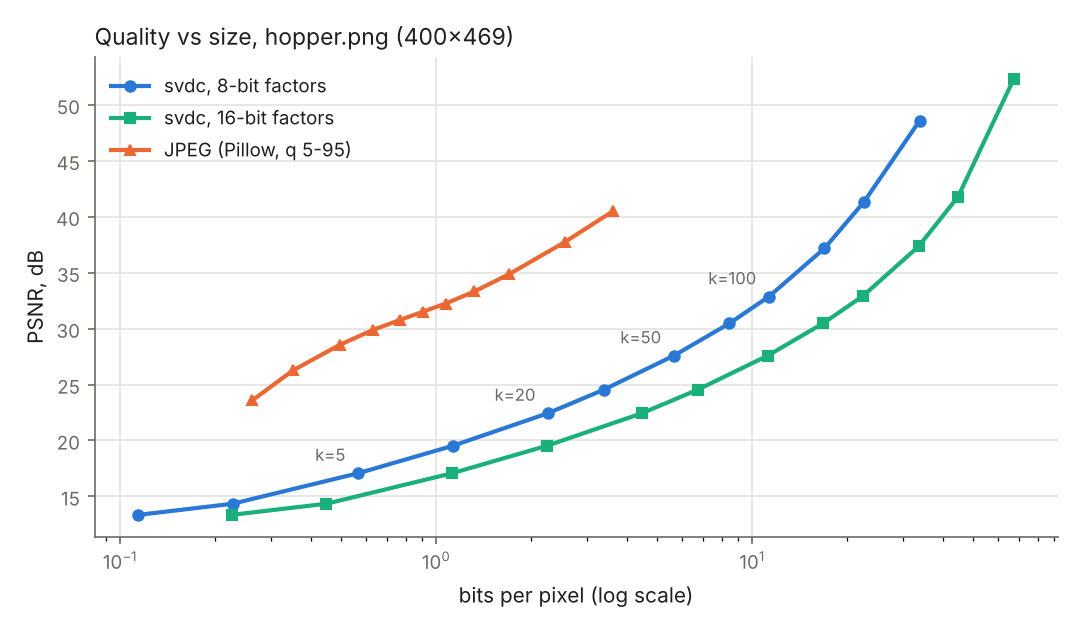
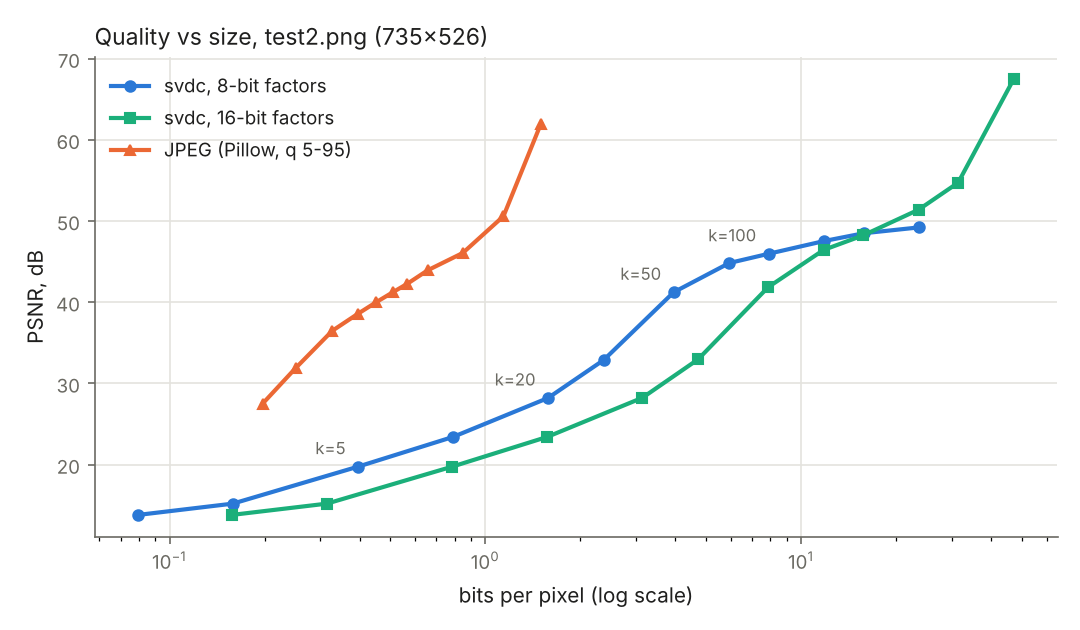
docs: use one of the project's own images (test2.png) for the README figures
Regenerate the reconstruction grid, rate-distortion plot, spectrum and
tables from examples/test2.png and describe what its spectrum shows;
remove the external demo image.

diff --git a/scripts/make_figures.py b/scripts/make_figures.py
@@ -1,7 +1,7 @@
 #!/usr/bin/env python3
 """Regenerate the README figures and tables from a real svdc run.
 
-usage: python3 scripts/make_figures.py [--svdc build/svdc] [--image examples/hopper.png]
+usage: python3 scripts/make_figures.py [--svdc build/svdc] [--image examples/test2.png]
 
 Writes into docs/:
   grid.jpg              original next to reconstructions at k = 5, 20, 50
@@ -25,7 +25,7 @@ import matplotlib
 matplotlib.use("Agg")
 import matplotlib.pyplot as plt  # noqa: E402
 import numpy as np  # noqa: E402
-from PIL import Image, ImageDraw  # noqa: E402
+from PIL import Image, ImageDraw, ImageFont  # noqa: E402
 
 KS = [1, 2, 5, 10, 20, 30, 50, 75, 100, 150, 200, 300]
 GRID_KS = [5, 20, 50]
@@ -76,15 +76,19 @@ def make_grid(original, prefix, path):
         tiles.append(("k = %d" % k, Image.open("%s_k%d.png" % (prefix, k)).convert("RGB")))
     h = 360
     scaled = [(name, im.resize((round(im.width * h / im.height), h), Image.LANCZOS)) for name, im in tiles]
-    gap, label = 8, 28
+    gap, label = 8, 30
     width = sum(im.width for _, im in scaled) + gap * (len(scaled) - 1)
     canvas = Image.new("RGB", (width, h + label), "white")
     draw = ImageDraw.Draw(canvas)
+    try:
+        font = ImageFont.load_default(size=18)  # Pillow >= 10.1
+    except TypeError:
+        font = ImageFont.load_default()
     x = 0
     for name, im in scaled:
         canvas.paste(im, (x, label))
-        tw = draw.textlength(name)
-        draw.text((x + (im.width - tw) / 2, 8), name, fill=INK)
+        tw = draw.textlength(name, font=font)
+        draw.text((x + (im.width - tw) / 2, 4), name, fill=INK, font=font)
         x += im.width + gap
     canvas.save(path, quality=92)
 
@@ -92,7 +96,7 @@ def make_grid(original, prefix, path):
 def main():
     parser = argparse.ArgumentParser()
     parser.add_argument("--svdc", default="build/svdc")
-    parser.add_argument("--image", default="examples/hopper.png")
+    parser.add_argument("--image", default="examples/test2.png")
     parser.add_argument("--out", default="docs")
     args = parser.parse_args()
     os.makedirs(args.out, exist_ok=True)

diff --git a/README.md b/README.md
@@ -11,8 +11,8 @@ a fresh clone builds with one command.
 
 ![original and reconstructions with k = 5, 20, 50](docs/grid.jpg)
 
-*Rank-k approximations of a 400×469 photo, per RGB channel. File sizes:
-k = 5 → 12.9 KiB, k = 20 → 51.7 KiB, k = 50 → 129.1 KiB (raw pixels: 549.6 KiB).*
+*Rank-k approximations of a 735×526 meme, per RGB channel. File sizes:
+k = 5 → 18.7 KiB, k = 20 → 74.6 KiB, k = 50 → 186.5 KiB (raw pixels: 1.11 MiB).*
 
 - Own SVD: Householder QR with column pivoting + one-sided Jacobi rotations
   (the structure of LAPACK's `xGEJSV`), and a randomized range finder with power
@@ -80,7 +80,7 @@ optimum (0.2% on a real image channel, whose spectrum decays quickly).
 `-k N` keeps N triplets per channel. `--energy F` instead picks, per channel,
 the smallest k with σ₁² + … + σ_k² ≥ F·‖A‖²_F; with the randomized solver the
 sketch size doubles until the target is met. Note that for raw pixel intensities
-the first triplet carries the mean brightness, so even k = 1 holds 70–80% of the
+the first triplet carries the mean brightness, so even k = 1 holds ~90% of the
 energy: useful targets are 0.99 and above (see [limitations](#limitations)).
 
 ## Building
@@ -98,7 +98,7 @@ Without CMake: `make` (builds `build-make/svdc`), `make test`, `make OPENMP=1`.
 
 | CMake option | default | effect |
 |---|---|---|
-| `SVDC_OPENMP` | `ON` | compress color channels in parallel if OpenMP is found |
+| `SVDC_OPENMP` | `ON` | compress color channels in parallel if OpenMP is found (not with MSVC, whose OpenMP 2.0 does not work in C11 mode) |
 | `SVDC_WERROR` | `OFF` | treat warnings as errors (used in CI) |
 | `SVDC_SANITIZE` | `OFF` | AddressSanitizer + UndefinedBehaviorSanitizer |
 | `SVDC_NATIVE` | `OFF` | `-march=native` (≈20% faster Jacobi on AVX2 machines) |
@@ -107,26 +107,26 @@ Without CMake: `make` (builds `build-make/svdc`), `make test`, `make OPENMP=1`.
 ## Usage
 
 ```text
-$ svdc compress examples/hopper.png hopper.svdc -k 50
-examples/hopper.png: 400x469, 3 channels -> hopper.svdc
+$ svdc compress examples/test2.png kittens.svdc -k 50
+examples/test2.png: 735x526, 3 channels -> kittens.svdc
   k = 50, 50, 50 (randomized SVD, 8-bit factors)
-  size 129.1 KiB, 4.3x smaller than raw pixels (549.6 KiB), 2.32x vs input file (299.8 KiB)
-  PSNR 27.57 dB, time 0.114 s
+  size 186.5 KiB, 6.1x smaller than raw pixels (1.11 MiB), 1.57x vs input file (292.6 KiB)
+  PSNR 41.23 dB, time 0.149 s
 
-$ svdc decompress hopper.svdc hopper_k50.png
-hopper.svdc -> hopper_k50.png (400x469, 3 channels), 0.033 s
+$ svdc decompress kittens.svdc kittens_k50.png
+kittens.svdc -> kittens_k50.png (735x526, 3 channels), 0.048 s
 
-$ svdc compress examples/hopper.png hopper.svdc --energy 0.99
-  k = 46, 56, 46 (randomized SVD, 8-bit factors)
+$ svdc compress examples/test2.png kittens.svdc --energy 0.99
+  k = 11, 11, 12 (randomized SVD, 8-bit factors)
   ...
 
-$ svdc bench examples/hopper.png --ks 5,20,50,100 --csv results.csv
-examples/hopper.png: 400x469, 3 channels, raw 549.6 KiB, file 299.8 KiB, randomized SVD, 8-bit factors
+$ svdc bench examples/test2.png --ks 5,20,50,100 --csv results.csv
+examples/test2.png: 735x526, 3 channels, raw 1.11 MiB, file 292.6 KiB, randomized SVD, 8-bit factors
      k         size  ratio(raw)  ratio(file)   PSNR dB  compress s  decompress s
-     5     12.9 KiB       42.5x       23.17x     17.06       0.019         0.004
-    20     51.7 KiB       10.6x        5.80x     22.44       0.035         0.008
-    50    129.1 KiB        4.3x        2.32x     27.57       0.094         0.028
-   100    258.1 KiB        2.1x        1.16x     32.86       0.205         0.046
+     5     18.7 KiB       60.6x       15.67x     19.75       0.034         0.011
+    20     74.6 KiB       15.2x        3.92x     28.21       0.095         0.018
+    50    186.5 KiB        6.1x        1.57x     41.23       0.170         0.048
+   100    373.0 KiB        3.0x        0.78x     45.97       0.352         0.093
 ```
 
 The reported PSNR is always measured on what a decoder will produce, i.e. after
@@ -143,30 +143,36 @@ All numbers below are produced by `svdc bench` and
 figures and tables in this README. Machine: 2 vCPU Intel Xeon @ 2.8 GHz,
 gcc 13, `-O3`, no `-march=native`.
 
-**Size and quality vs k** (`examples/hopper.png`, 400×469 RGB, 8-bit factors,
-randomized SVD; raw pixels are 549.6 KiB):
+**Size and quality vs k** (`examples/test2.png`, 735×526 RGB, 8-bit factors,
+randomized SVD; raw pixels are 1.11 MiB, the PNG itself 292.6 KiB):
 
 | k | file size | vs raw | bits/pixel | PSNR, dB | compress, s |
 |--:|--:|--:|--:|--:|--:|
-| 1 | 2.6 KiB | 210.5x | 0.11 | 13.35 | 0.015 |
-| 5 | 12.9 KiB | 42.5x | 0.56 | 17.07 | 0.019 |
-| 10 | 25.8 KiB | 21.3x | 1.13 | 19.53 | 0.022 |
-| 20 | 51.7 KiB | 10.6x | 2.26 | 22.44 | 0.034 |
-| 50 | 129.1 KiB | 4.3x | 5.64 | 27.57 | 0.084 |
-| 100 | 258.1 KiB | 2.1x | 11.27 | 32.86 | 0.205 |
-| 200 | 516.2 KiB | 1.1x | 22.54 | 41.32 | 0.740 |
+| 1 | 3.8 KiB | 301.3x | 0.08 | 13.81 | 0.027 |
+| 5 | 18.7 KiB | 60.6x | 0.40 | 19.75 | 0.032 |
+| 10 | 37.3 KiB | 30.3x | 0.79 | 23.41 | 0.041 |
+| 20 | 74.6 KiB | 15.2x | 1.58 | 28.21 | 0.069 |
+| 30 | 111.9 KiB | 10.1x | 2.37 | 32.88 | 0.094 |
+| 50 | 186.5 KiB | 6.1x | 3.95 | 41.23 | 0.148 |
+| 100 | 373.0 KiB | 3.0x | 7.90 | 45.97 | 0.350 |
+| 200 | 745.9 KiB | 1.5x | 15.81 | 48.50 | 1.130 |
 
 ![PSNR vs bits per pixel for svdc and JPEG](docs/rate_distortion.png)
 
 **Honest comparison with JPEG.** At equal size JPEG is far better: it reaches
-~29 dB at 0.5 bits per pixel, while the SVD codec needs ~6 bits per pixel for
+41 dB at 0.5 bits per pixel, while the SVD codec needs ~4 bits per pixel for
 the same quality. This is expected and is the main lesson of the project: a
-truncated SVD is the *optimal low-rank* approximation, but natural images are
-not low-rank. Their singular values decay slowly (below), and fine detail costs
-whole rank-one layers spanning the full image, while JPEG spends bits locally
-(8×8 DCT blocks), exploits human perception (chroma subsampling, quantization
-tables) and entropy-codes the result. Here 8-bit factors beat 16-bit ones at
-every size, because quantization noise is much smaller than the truncation error.
+truncated SVD is the *optimal low-rank* approximation, but images are not
+low-rank in general. Fine detail costs whole rank-one layers spanning the full
+image, while JPEG spends bits locally (8×8 DCT blocks), exploits human
+perception (chroma subsampling, quantization tables) and entropy-codes the result.
+
+This particular image is friendlier to SVD than a typical photo: the spectrum
+below has a sharp knee near i ≈ 80 (the meme looks like an upscaled
+low-resolution picture, so its effective rank is small), which is why PSNR jumps
+from 33 dB at k = 30 to 41 dB at k = 50. Past that point the 8-bit factors hit
+their quantization ceiling (~49 dB), and from k ≈ 150 on the 16-bit factors
+give better quality per byte; below it 8 bits are always the better choice.
 
 ![singular values and captured energy per channel](docs/spectrum.png)
 
@@ -179,9 +185,9 @@ every size, because quantization noise is much smaller than the truncation error
 | Jacobi (exact, all 868 triplets) | 21.0 s | 14.5 s |
 
 Three channels on two cores bound the channel-level speedup at 1.5× for the
-compute-bound Jacobi solver. The randomized solver loses at most 0.15 dB of
-PSNR against the exact one (hopper.png, k = 5…200; the exact SVD of that image
-takes 1.0 s, the randomized one 0.02–0.65 s depending on k).
+compute-bound Jacobi solver. The randomized solver loses at most 0.05 dB of
+PSNR against the exact one (test2.png, k = 5…200; the exact SVD of all three
+channels takes 2.5 s, the randomized one 0.03–1.1 s depending on k).
 
 **Accuracy** (`tests/numpy_check.py`, run in CI): the Jacobi SVD matches
 `numpy.linalg.svd` with max |σᵢ − σᵢ^np| / σ₁ ≤ 6e-14,
@@ -263,5 +269,5 @@ and only worked for square PNG images. That version is kept unchanged on the
 ## License
 
 MIT, see [LICENSE](LICENSE). stb is MIT / public domain
-([third_party/stb/LICENSE](third_party/stb/LICENSE)). Image credits are in
-[examples/README.md](examples/README.md).
+([third_party/stb/LICENSE](third_party/stb/LICENSE)). The example images are
+listed in [examples/README.md](examples/README.md).

diff --git a/examples/README.md b/examples/README.md
@@ -2,11 +2,10 @@
 
 | file | size | notes |
 |---|---|---|
-| `hopper.png` | 400×469 RGB | Commodore Grace M. Hopper, official U.S. Navy photograph, **public domain**. Taken from Matplotlib's sample data (`grace_hopper.jpg`) and resized with Lanczos filtering, which also removes the original JPEG block structure so that the JPEG comparison in the README is fair. Used for all README figures. |
 | `img.jpg` | 868×1541 RGB | JPEG input, portrait orientation; used for timings |
 | `test.png` | 100×100 RGB | small, used by the fast tests |
 | `test1.png` | 688×688 RGB | |
-| `test2.png` | 735×526 RGB | non-square |
+| `test2.png` | 735×526 RGB | non-square; used for all README figures |
 | `test3.png` | 360×360 RGBA | alpha channel (fully opaque, stored as a constant channel) |
 
-All images except `hopper.png` come from the original 2024 version of the project.
+All images come from the original 2024 version of the project.
